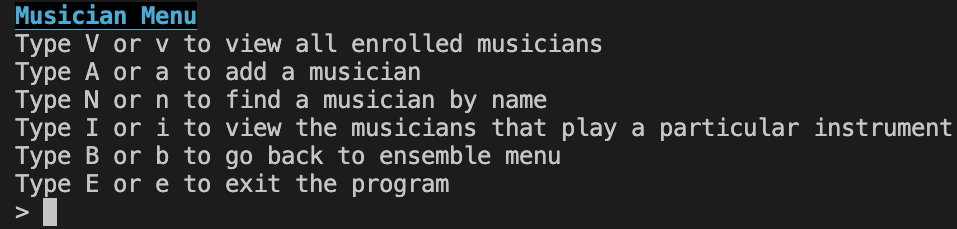
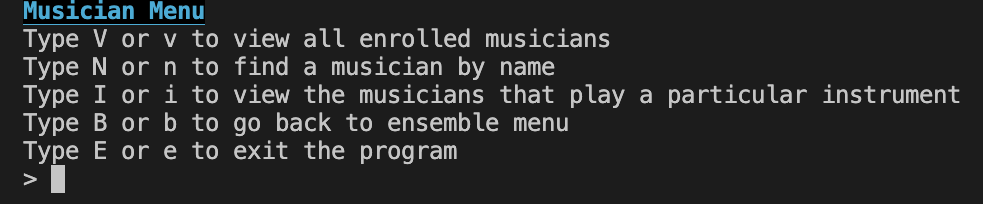
updated README

Changed region(s): [[0.0, 0.0, 1.0, 1.0]]

diff --git a/lib/debug.py b/lib/debug.py
@@ -23,9 +23,11 @@ def reset_database():
     Musician.create('Philly Joe Jones', 'drums', 45, 99, 'no', jazz_ensemble_1.id)
     Musician.create('McCoy Tyner', 'piano', 25, 87, 'yes', jazz_combo_1.id)
     Musician.create('Chet Baker', 'trumpet', 26, 78, 'yes', jazz_combo_1.id)
+    Musician.create('Norah Jones', 'piano', 40, 91, 'yes', jazz_ensemble_1.id)
     Musician.create('Ron Carter', 'bass', 42, 89, 'yes', jazz_ensemble_1.id)
     Musician.create('Charlie Parker', 'alto saxophone', 76, 98, 'no', jazz_ensemble_1.id)
     Musician.create('Tom Morello', 'guitar', 56, 75, 'yes', rock_band_1.id)
+    Musician.create('Taylor Swift', 'guitar', 31, 89, 'no', jazz_combo_1.id)
     Musician.create('Jim Ross', 'drums', 34, 54, 'no', chamber_ensemble_2.id)
     Musician.create('Chris Cornell', 'voice', 34, 53, 'no', rock_band_1.id)
     Musician.create('Chuck Mangione', 'trumpet', 45, 78, 'yes', jazz_ensemble_1.id)
@@ -33,6 +35,7 @@ def reset_database():
     Musician.create('Chris Lamb', 'drums', 34, 78, 'yes', chamber_ensemble_2.id)
     Musician.create('Jack Johnson', 'trombone', 46, 87, 'yes', jazz_orchestra_3.id)
     Musician.create('Chris Marton', 'trumpet', 44, 89, 'no', symphonic_winds.id)
+    Musician.create('Patsy Dash', 'drums', 78, 97, 'no', symphonic_winds.id)
 
 reset_database()
 ipdb.set_trace()

diff --git a/lib/seed.py b/lib/seed.py
@@ -21,9 +21,11 @@ def seed_database():
     Musician.create('Philly Joe Jones', 'drums', 45, 99, 'no', jazz_ensemble_1.id)
     Musician.create('McCoy Tyner', 'piano', 25, 87, 'yes', jazz_combo_1.id)
     Musician.create('Chet Baker', 'trumpet', 26, 78, 'yes', jazz_combo_1.id)
+    Musician.create('Norah Jones', 'piano', 40, 91, 'yes', jazz_ensemble_1.id)
     Musician.create('Ron Carter', 'bass', 42, 89, 'yes', jazz_ensemble_1.id)
     Musician.create('Charlie Parker', 'alto saxophone', 76, 98, 'no', jazz_ensemble_1.id)
     Musician.create('Tom Morello', 'guitar', 56, 75, 'yes', rock_band_1.id)
+    Musician.create('Taylor Swift', 'guitar', 31, 89, 'no', jazz_combo_1.id)
     Musician.create('Jim Ross', 'drums', 34, 54, 'no', chamber_ensemble_2.id)
     Musician.create('Chris Cornell', 'voice', 34, 53, 'no', rock_band_1.id)
     Musician.create('Chuck Mangione', 'trumpet', 45, 78, 'yes', jazz_ensemble_1.id)
@@ -31,6 +33,7 @@ def seed_database():
     Musician.create('Chris Lamb', 'drums', 34, 78, 'yes', chamber_ensemble_2.id)
     Musician.create('Jack Johnson', 'trombone', 46, 87, 'yes', jazz_orchestra_3.id)
     Musician.create('Chris Marton', 'trumpet', 44, 89, 'no', symphonic_winds.id)
+    Musician.create('Patsy Dash', 'drums', 78, 97, 'no', symphonic_winds.id)
 
 
 seed_database()

diff --git a/lib/cli.py b/lib/cli.py
@@ -130,7 +130,6 @@ def musicians():
 def musicians_menu():
     console.print("Musician Menu", style="bold underline cyan on black")
     print("Type V or v to view all enrolled musicians")
-    print("Type A or a to add a musician")
     print("Type N or n to find a musician by name")
     print("Type I or i to view the musicians that play a particular instrument")
     print("Type B or b to go back to ensemble menu")

diff --git a/README.md b/README.md
@@ -38,6 +38,8 @@
 
 ![display-filter](/Photos/Main_Menu.png)
 
+### Main Options
+
 - Direct to ensembles menu
 - Direct to musicians menu
 
@@ -47,6 +49,9 @@
 
 ![display-filter](/Photos/Ensemble_Menu.png)
 
+### Ensemble Options
+
+- View all ensembles
 - Add a new ensemble
 - Find an ensemble by director
 - Find an ensemble by level
@@ -56,6 +61,8 @@
 ## Sub Ensemble Menu
 
 ![display-filter](/Photos/Sub_Ensemble_Menu.png)
+
+### Sub Ensemble Options
 
 - Update an ensemble
 - Delete an ensemble
@@ -67,7 +74,25 @@
 
 ![display-filter](/Photos/Musician_Menu.png)
 
+### Musician Options
+
 - View all musicians
-- Add a musician
 - Find a musician by name
 - View musicians by instrument
+
+---
+
+## Sub Musicians Menu
+
+![display-filter](/Photos/Sub_Musician_Menu.png)
+
+### Sub Musician Options
+
+- Add a musician
+- Delete a musician
+
+---
+
+## Support
+
+If you have any questions, you can find me on Discord: cooleywc
